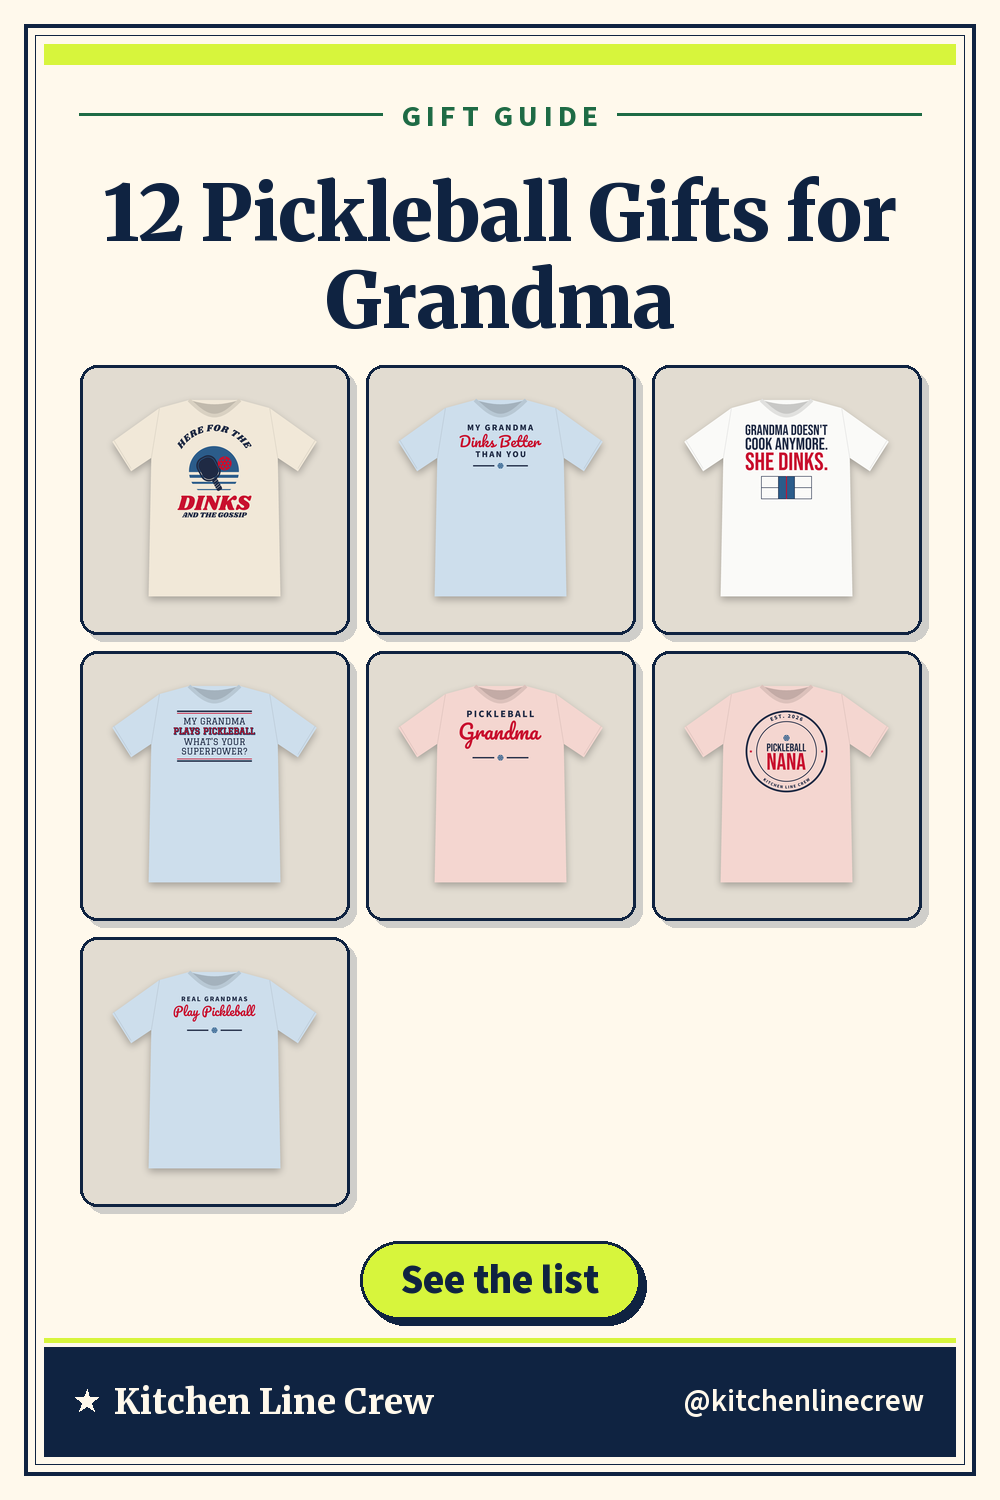
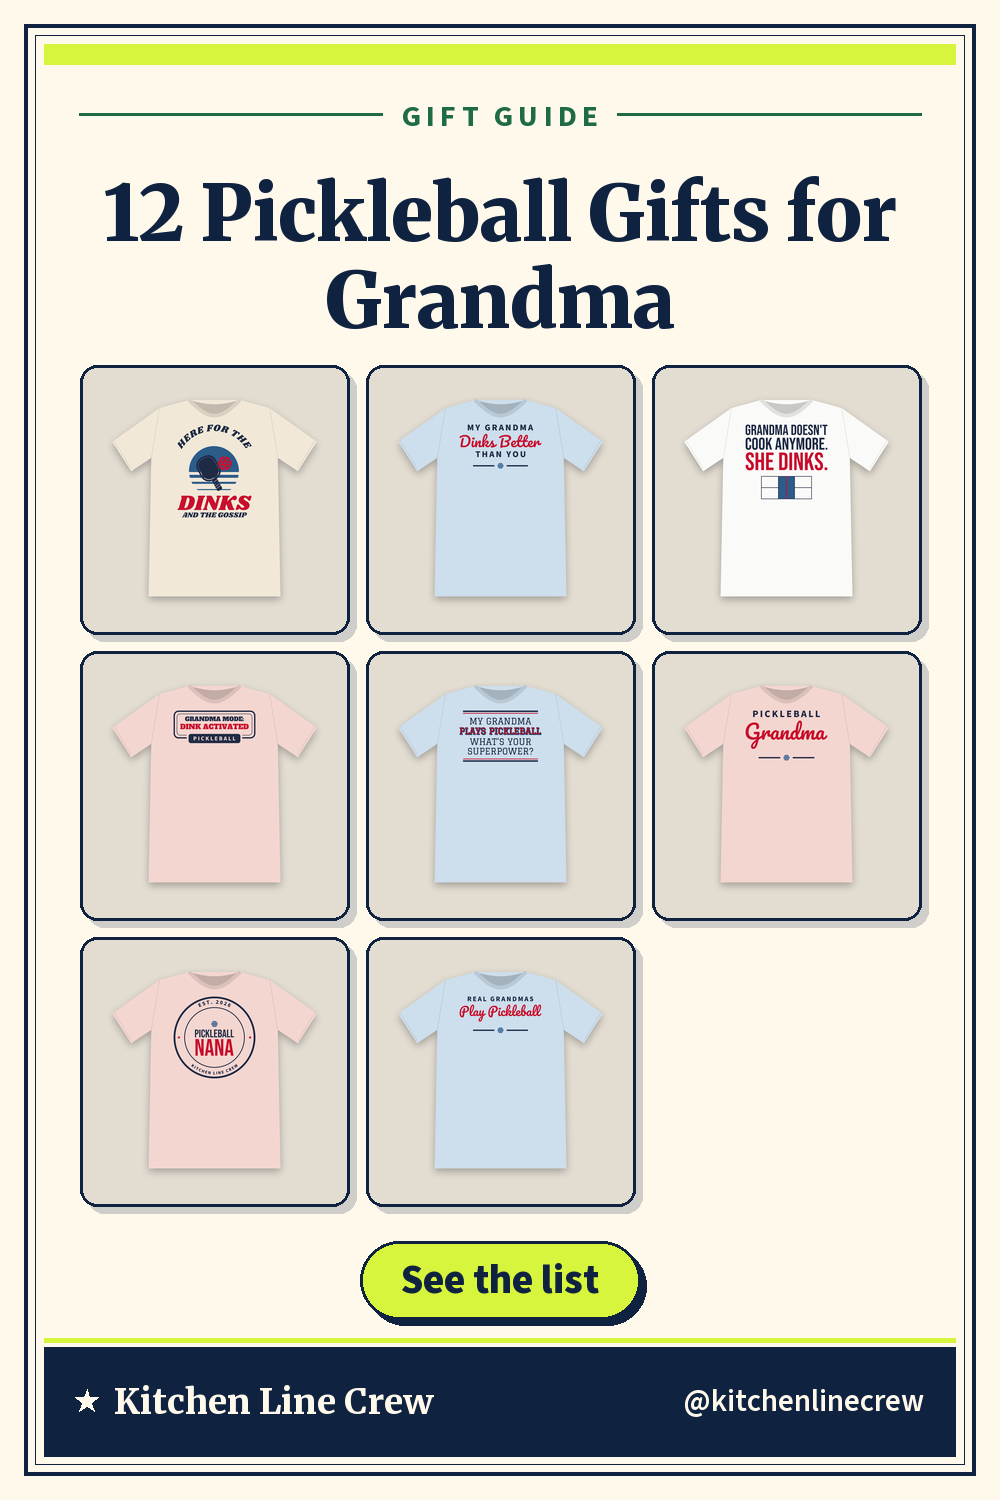
Update site 2026-10-12T17:53Z

diff --git a/gifts/grandma.html b/gifts/grandma.html
@@ -63,6 +63,7 @@ ol li,ul li{margin:0 0 .45rem}
 <div class="card"><img src="../gifts/img/dinks-and-gossip-tee.jpg" alt="Here for the Dinks and the Gossip pickleball shirt" loading="lazy" width="600" height="600"><p class="meta">Pickleball shirt</p><h3>Here for the Dinks and the Gossip</h3><p class="price">$31.99</p><a class="btn" href="https://www.etsy.com/listing/4593674341/here-for-the-dinks-and-the-gossip" rel="noopener" target="_blank">View on Etsy</a></div>
 <div class="card"><img src="../gifts/img/grandma-dinks-better-tee.jpg" alt="My Grandma Dinks Better Than You pickleball shirt" loading="lazy" width="600" height="600"><p class="meta">Pickleball shirt</p><h3>My Grandma Dinks Better Than You</h3><p class="price">$31.99</p><a class="btn" href="https://www.etsy.com/listing/4593642781/my-grandma-dinks-better-than-you" rel="noopener" target="_blank">View on Etsy</a></div>
 <div class="card"><img src="../gifts/img/grandma-doesnt-cook-tee.jpg" alt="Grandma Doesn&#x27;t Cook Anymore. She Dinks. pickleball shirt" loading="lazy" width="600" height="600"><p class="meta">Pickleball shirt</p><h3>Grandma Doesn&#x27;t Cook Anymore. She Dinks.</h3><p class="price">$31.99</p><a class="btn" href="https://www.etsy.com/listing/4593659180/grandma-doesnt-cook-anymore-she-dinks" rel="noopener" target="_blank">View on Etsy</a></div>
+<div class="card"><img src="../gifts/img/grandma-mode-tee.jpg" alt="Grandma Mode: Dink Activated pickleball shirt" loading="lazy" width="600" height="600"><p class="meta">Pickleball shirt</p><h3>Grandma Mode: Dink Activated</h3><p class="price">$31.99</p><a class="btn" href="https://www.etsy.com/listing/4593677559/grandma-mode-dink-activated-pickleball" rel="noopener" target="_blank">View on Etsy</a></div>
 <div class="card"><img src="../gifts/img/grandma-superpower-tee.jpg" alt="My Grandma Plays Pickleball What&#x27;s Your Superpower? pickleball shirt" loading="lazy" width="600" height="600"><p class="meta">Pickleball shirt</p><h3>My Grandma Plays Pickleball What&#x27;s Your Superpower?</h3><p class="price">$31.99</p><a class="btn" href="https://www.etsy.com/listing/4593673741/my-grandma-plays-pickleball-whats-your" rel="noopener" target="_blank">View on Etsy</a></div>
 <div class="card"><img src="../gifts/img/pickleball-grandma-tee.jpg" alt="Pickleball Grandma pickleball shirt" loading="lazy" width="600" height="600"><p class="meta">Pickleball shirt</p><h3>Pickleball Grandma</h3><p class="price">$31.99</p><a class="btn" href="https://www.etsy.com/listing/4593655316/pickleball-grandma-shirt-funny" rel="noopener" target="_blank">View on Etsy</a></div>
 <div class="card"><img src="../gifts/img/pickleball-nana-tee.jpg" alt="Pickleball Nana pickleball shirt" loading="lazy" width="600" height="600"><p class="meta">Pickleball shirt</p><h3>Pickleball Nana</h3><p class="price">$31.99</p><a class="btn" href="https://www.etsy.com/listing/4593642187/pickleball-nana-shirt-funny-pickleball" rel="noopener" target="_blank">View on Etsy</a></div>
@@ -70,8 +71,7 @@ ol li,ul li{margin:0 0 .45rem}
 <div class="card"><img src="../gifts/img/dinks-and-gossip-mug.jpg" alt="Here for the Dinks and the Gossip pickleball mug" loading="lazy" width="600" height="600"><p class="meta">Pickleball mug</p><h3>Here for the Dinks and the Gossip</h3><p class="price">$22.99</p><a class="btn" href="https://www.etsy.com/listing/4593690792/here-for-the-dinks-and-the-gossip" rel="noopener" target="_blank">View on Etsy</a></div>
 <div class="card"><img src="../gifts/img/grandma-dinks-better-mug.jpg" alt="My Grandma Dinks Better Than You pickleball mug" loading="lazy" width="600" height="600"><p class="meta">Pickleball mug</p><h3>My Grandma Dinks Better Than You</h3><p class="price">$22.99</p><a class="btn" href="https://www.etsy.com/listing/4593658644/my-grandma-dinks-better-than-you" rel="noopener" target="_blank">View on Etsy</a></div>
 <div class="card"><img src="../gifts/img/grandma-doesnt-cook-mug.jpg" alt="Grandma Doesn&#x27;t Cook Anymore. She Dinks. pickleball mug" loading="lazy" width="600" height="600"><p class="meta">Pickleball mug</p><h3>Grandma Doesn&#x27;t Cook Anymore. She Dinks.</h3><p class="price">$22.99</p><a class="btn" href="https://www.etsy.com/listing/4593659238/grandma-doesnt-cook-anymore-she-dinks" rel="noopener" target="_blank">View on Etsy</a></div>
-<div class="card"><img src="../gifts/img/grandma-superpower-mug.jpg" alt="My Grandma Plays Pickleball What&#x27;s Your Superpower? pickleball mug" loading="lazy" width="600" height="600"><p class="meta">Pickleball mug</p><h3>My Grandma Plays Pickleball What&#x27;s Your Superpower?</h3><p class="price">$22.99</p><a class="btn" href="https://www.etsy.com/listing/4593673785/my-grandma-plays-pickleball-whats-your" rel="noopener" target="_blank">View on Etsy</a></div>
-<div class="card"><img src="../gifts/img/pickleball-grandma-mug.jpg" alt="Pickleball Grandma pickleball mug" loading="lazy" width="600" height="600"><p class="meta">Pickleball mug</p><h3>Pickleball Grandma</h3><p class="price">$22.99</p><a class="btn" href="https://www.etsy.com/listing/4593657536/pickleball-grandma-mug-funny-pickleball" rel="noopener" target="_blank">View on Etsy</a></div>
+<div class="card"><img src="../gifts/img/grandma-mode-mug.jpg" alt="Grandma Mode: Dink Activated pickleball mug" loading="lazy" width="600" height="600"><p class="meta">Pickleball mug</p><h3>Grandma Mode: Dink Activated</h3><p class="price">$22.99</p><a class="btn" href="https://www.etsy.com/listing/4593694020/grandma-mode-dink-activated-pickleball" rel="noopener" target="_blank">View on Etsy</a></div>
 <p class="small">Prices are from when this page was built; Etsy always shows the current price.</p><p><a href="https://www.etsy.com/shop/KitchenLineCrew" rel="noopener" target="_blank">See everything in our Etsy shop</a>.</p>
 <h2>More gift guides</h2>
 <div class="row"><a class="btn alt" href="../gifts/grandpa.html">Pickleball Gifts for Grandpa</a><a class="btn alt" href="../gifts/mom.html">Pickleball Gifts for Mom</a><a class="btn alt" href="../gifts/dad.html">Pickleball Gifts for Dad</a><a class="btn alt" href="../gifts/funny.html">Funny Pickleball Gifts</a><a class="btn alt" href="../gifts/under-35.html">Pickleball Gifts Under $35</a></div>

diff --git a/gifts/under-35.html b/gifts/under-35.html
@@ -74,6 +74,7 @@ ol li,ul li{margin:0 0 .45rem}
 <div class="card"><img src="../gifts/img/early-bird-court-mug.jpg" alt="The Early Bird Gets the Court pickleball mug" loading="lazy" width="600" height="600"><p class="meta">Pickleball mug</p><h3>The Early Bird Gets the Court</h3><p class="price">$22.99</p><a class="btn" href="https://www.etsy.com/listing/4593688378/the-early-bird-gets-the-court-pickleball" rel="noopener" target="_blank">View on Etsy</a></div>
 <div class="card"><img src="../gifts/img/grandma-dinks-better-mug.jpg" alt="My Grandma Dinks Better Than You pickleball mug" loading="lazy" width="600" height="600"><p class="meta">Pickleball mug</p><h3>My Grandma Dinks Better Than You</h3><p class="price">$22.99</p><a class="btn" href="https://www.etsy.com/listing/4593658644/my-grandma-dinks-better-than-you" rel="noopener" target="_blank">View on Etsy</a></div>
 <div class="card"><img src="../gifts/img/grandma-doesnt-cook-mug.jpg" alt="Grandma Doesn&#x27;t Cook Anymore. She Dinks. pickleball mug" loading="lazy" width="600" height="600"><p class="meta">Pickleball mug</p><h3>Grandma Doesn&#x27;t Cook Anymore. She Dinks.</h3><p class="price">$22.99</p><a class="btn" href="https://www.etsy.com/listing/4593659238/grandma-doesnt-cook-anymore-she-dinks" rel="noopener" target="_blank">View on Etsy</a></div>
+<div class="card"><img src="../gifts/img/grandma-mode-mug.jpg" alt="Grandma Mode: Dink Activated pickleball mug" loading="lazy" width="600" height="600"><p class="meta">Pickleball mug</p><h3>Grandma Mode: Dink Activated</h3><p class="price">$22.99</p><a class="btn" href="https://www.etsy.com/listing/4593694020/grandma-mode-dink-activated-pickleball" rel="noopener" target="_blank">View on Etsy</a></div>
 <div class="card"><img src="../gifts/img/grandma-superpower-mug.jpg" alt="My Grandma Plays Pickleball What&#x27;s Your Superpower? pickleball mug" loading="lazy" width="600" height="600"><p class="meta">Pickleball mug</p><h3>My Grandma Plays Pickleball What&#x27;s Your Superpower?</h3><p class="price">$22.99</p><a class="btn" href="https://www.etsy.com/listing/4593673785/my-grandma-plays-pickleball-whats-your" rel="noopener" target="_blank">View on Etsy</a></div>
 <div class="card"><img src="../gifts/img/grandpa-dinks-better-mug.jpg" alt="My Grandpa Dinks Better Than You pickleball mug" loading="lazy" width="600" height="600"><p class="meta">Pickleball mug</p><h3>My Grandpa Dinks Better Than You</h3><p class="price">$22.99</p><a class="btn" href="https://www.etsy.com/listing/4593658786/my-grandpa-dinks-better-than-you" rel="noopener" target="_blank">View on Etsy</a></div>
 <div class="card"><img src="../gifts/img/gray-hair-great-hands-mug.jpg" alt="Gray Hair Great Hands pickleball mug" loading="lazy" width="600" height="600"><p class="meta">Pickleball mug</p><h3>Gray Hair Great Hands</h3><p class="price">$22.99</p><a class="btn" href="https://www.etsy.com/listing/4593687548/gray-hair-great-hands-pickleball-mug" rel="noopener" target="_blank">View on Etsy</a></div>
@@ -83,7 +84,6 @@ ol li,ul li{margin:0 0 .45rem}
 <div class="card"><img src="../gifts/img/is-it-in-mug.jpg" alt="Is It In? Asking for My Partner pickleball mug" loading="lazy" width="600" height="600"><p class="meta">Pickleball mug</p><h3>Is It In? Asking for My Partner</h3><p class="price">$22.99</p><a class="btn" href="https://www.etsy.com/listing/4593643153/is-it-in-asking-for-my-partner" rel="noopener" target="_blank">View on Etsy</a></div>
 <div class="card"><img src="../gifts/img/king-of-nvz-mug.jpg" alt="King of the Non-Volley Zone pickleball mug" loading="lazy" width="600" height="600"><p class="meta">Pickleball mug</p><h3>King of the Non-Volley Zone</h3><p class="price">$22.99</p><a class="btn" href="https://www.etsy.com/listing/4593689624/king-of-the-non-volley-zone-pickleball" rel="noopener" target="_blank">View on Etsy</a></div>
 <div class="card"><img src="../gifts/img/kitchen-line-crew-mug.jpg" alt="Kitchen Line Crew pickleball mug" loading="lazy" width="600" height="600"><p class="meta">Pickleball mug</p><h3>Kitchen Line Crew</h3><p class="price">$22.99</p><a class="btn" href="https://www.etsy.com/listing/4593660494/kitchen-line-crew-pickleball-mug-funny" rel="noopener" target="_blank">View on Etsy</a></div>
-<div class="card"><img src="../gifts/img/knees-say-no-mug.jpg" alt="My Knees Say No My Paddle Says Yes pickleball mug" loading="lazy" width="600" height="600"><p class="meta">Pickleball mug</p><h3>My Knees Say No My Paddle Says Yes</h3><p class="price">$22.99</p><a class="btn" href="https://www.etsy.com/listing/4593644429/my-knees-say-no-my-paddle-says-yes" rel="noopener" target="_blank">View on Etsy</a></div>
 <p class="small">Prices are from when this page was built; Etsy always shows the current price.</p><p><a href="https://www.etsy.com/shop/KitchenLineCrew" rel="noopener" target="_blank">See everything in our Etsy shop</a>.</p>
 <h2>More gift guides</h2>
 <div class="row"><a class="btn alt" href="../gifts/grandma.html">Pickleball Gifts for Grandma</a><a class="btn alt" href="../gifts/grandpa.html">Pickleball Gifts for Grandpa</a><a class="btn alt" href="../gifts/mom.html">Pickleball Gifts for Mom</a><a class="btn alt" href="../gifts/dad.html">Pickleball Gifts for Dad</a><a class="btn alt" href="../gifts/funny.html">Funny Pickleball Gifts</a></div>

diff --git a/gifts/mom.html b/gifts/mom.html
@@ -62,6 +62,7 @@ ol li,ul li{margin:0 0 .45rem}
 <p class="lead">Funny pickleball shirts and mugs from our own shop, for the player who lives at the kitchen line. Every one is printed and shipped in the US through Etsy.</p>
 <div class="card"><img src="../gifts/img/pickleball-mom-tee.jpg" alt="Pickleball Mom pickleball shirt" loading="lazy" width="600" height="600"><p class="meta">Pickleball shirt</p><h3>Pickleball Mom</h3><p class="price">$31.99</p><a class="btn" href="https://www.etsy.com/listing/4593658250/pickleball-mom-shirt-funny-pickleball" rel="noopener" target="_blank">View on Etsy</a></div>
 <div class="card"><img src="../gifts/img/pickleball-mom-mug.jpg" alt="Pickleball Mom pickleball mug" loading="lazy" width="600" height="600"><p class="meta">Pickleball mug</p><h3>Pickleball Mom</h3><p class="price">$22.99</p><a class="btn" href="https://www.etsy.com/listing/4593658300/pickleball-mom-mug-funny-pickleball-gift" rel="noopener" target="_blank">View on Etsy</a></div>
+<div class="card"><img src="../gifts/img/coffee-then-pickleball-tee.jpg" alt="Coffee First. Then Pickleball. pickleball shirt" loading="lazy" width="600" height="600"><p class="meta">Pickleball shirt</p><h3>Coffee First. Then Pickleball.</h3><p class="price">$31.99</p><a class="btn" href="https://www.etsy.com/listing/4593918539/coffee-first-then-pickleball-shirt-funny" rel="noopener" target="_blank">View on Etsy</a></div>
 <div class="card"><img src="../gifts/img/i-lob-you-tee.jpg" alt="I Lob You pickleball shirt" loading="lazy" width="600" height="600"><p class="meta">Pickleball shirt</p><h3>I Lob You</h3><p class="price">$31.99</p><a class="btn" href="https://www.etsy.com/listing/4593673593/i-lob-you-pickleball-shirt-funny" rel="noopener" target="_blank">View on Etsy</a></div>
 <div class="card"><img src="../gifts/img/ladies-who-dink-tee.jpg" alt="Ladies Who Dink pickleball shirt" loading="lazy" width="600" height="600"><p class="meta">Pickleball shirt</p><h3>Ladies Who Dink</h3><p class="price">$31.99</p><a class="btn" href="https://www.etsy.com/listing/4593690880/ladies-who-dink-pickleball-shirt-funny" rel="noopener" target="_blank">View on Etsy</a></div>
 <div class="card"><img src="../gifts/img/coffee-then-pickleball-mug.jpg" alt="Coffee First. Then Pickleball. pickleball mug" loading="lazy" width="600" height="600"><p class="meta">Pickleball mug</p><h3>Coffee First. Then Pickleball.</h3><p class="price">$22.99</p><a class="btn" href="https://www.etsy.com/listing/4593672287/coffee-first-then-pickleball-mug-funny" rel="noopener" target="_blank">View on Etsy</a></div>
@@ -71,7 +72,6 @@ ol li,ul li{margin:0 0 .45rem}
 <div class="card"><img src="../gifts/img/bad-knees-good-dinks-tee.jpg" alt="Bad Knees Good Dinks pickleball shirt" loading="lazy" width="600" height="600"><p class="meta">Pickleball shirt</p><h3>Bad Knees Good Dinks</h3><p class="price">$31.99</p><a class="btn" href="https://www.etsy.com/listing/4593659966/bad-knees-good-dinks-pickleball-shirt" rel="noopener" target="_blank">View on Etsy</a></div>
 <div class="card"><img src="../gifts/img/courts-open-at-seven-tee.jpg" alt="Courts Open at 7. So Do I. pickleball shirt" loading="lazy" width="600" height="600"><p class="meta">Pickleball shirt</p><h3>Courts Open at 7. So Do I.</h3><p class="price">$31.99</p><a class="btn" href="https://www.etsy.com/listing/4593688976/courts-open-at-7-so-do-i-pickleball" rel="noopener" target="_blank">View on Etsy</a></div>
 <div class="card"><img src="../gifts/img/dink-dink-smash-tee.jpg" alt="Dink. Dink. Dink. Dink. Dink. Smash. pickleball shirt" loading="lazy" width="600" height="600"><p class="meta">Pickleball shirt</p><h3>Dink. Dink. Dink. Dink. Dink. Smash.</h3><p class="price">$31.99</p><a class="btn" href="https://www.etsy.com/listing/4593643865/dink-dink-dink-dink-dink-smash" rel="noopener" target="_blank">View on Etsy</a></div>
-<div class="card"><img src="../gifts/img/dink-reset-repeat-tee.jpg" alt="Dink. Reset. Repeat. pickleball shirt" loading="lazy" width="600" height="600"><p class="meta">Pickleball shirt</p><h3>Dink. Reset. Repeat.</h3><p class="price">$31.99</p><a class="btn" href="https://www.etsy.com/listing/4593645505/dink-reset-repeat-pickleball-shirt-funny" rel="noopener" target="_blank">View on Etsy</a></div>
 <p class="small">Prices are from when this page was built; Etsy always shows the current price.</p><p><a href="https://www.etsy.com/shop/KitchenLineCrew" rel="noopener" target="_blank">See everything in our Etsy shop</a>.</p>
 <h2>More gift guides</h2>
 <div class="row"><a class="btn alt" href="../gifts/grandma.html">Pickleball Gifts for Grandma</a><a class="btn alt" href="../gifts/grandpa.html">Pickleball Gifts for Grandpa</a><a class="btn alt" href="../gifts/dad.html">Pickleball Gifts for Dad</a><a class="btn alt" href="../gifts/funny.html">Funny Pickleball Gifts</a><a class="btn alt" href="../gifts/under-35.html">Pickleball Gifts Under $35</a></div>
